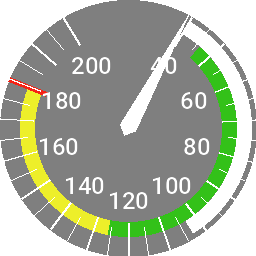
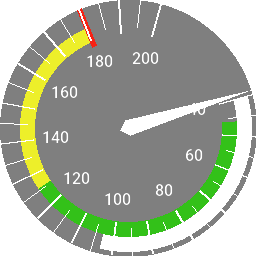
add rotation docs & xml layout

diff --git a/gopro_overlay/layout_xml.py b/gopro_overlay/layout_xml.py
@@ -327,4 +327,5 @@ def create_asi(element, entry, timeseries, font, **kwargs):
         Vfe=iattrib(element, "vfe", d=103),
         Vno=iattrib(element, "vno", d=126),
         Vne=iattrib(element, "vne", d=180),
+        rotate=iattrib(element, "rotate", d=0),
     )

diff --git a/docs/xml/examples/07-air-speed-indicator/README.md b/docs/xml/examples/07-air-speed-indicator/README.md
@@ -75,6 +75,29 @@ The component can be sized - sizes that are too small or big might not render qu
 <kbd>![07-air-speed-indicator-4.png](07-air-speed-indicator-4.png)</kbd>
 
 
+# Rotation
+
+Can rotate the entire gauge clockwise using `rotate`
+
+
+```xml
+<component type="asi" rotate="45" />
+```
+<kbd>![07-air-speed-indicator-5.png](07-air-speed-indicator-5.png)</kbd>
+
+
+```xml
+<component type="asi" rotate="90" />
+```
+<kbd>![07-air-speed-indicator-6.png](07-air-speed-indicator-6.png)</kbd>
+
+
+```xml
+<component type="asi" rotate="180" />
+```
+<kbd>![07-air-speed-indicator-7.png](07-air-speed-indicator-7.png)</kbd>
+
+
 # Font
 
 The text font can be changed in size
@@ -83,5 +106,5 @@ The text font can be changed in size
 ```xml
 <component type="asi" textsize="24" />
 ```
-<kbd>![07-air-speed-indicator-5.png](07-air-speed-indicator-5.png)</kbd>
+<kbd>![07-air-speed-indicator-8.png](07-air-speed-indicator-8.png)</kbd>
 

diff --git a/build-scripts/examples/07-air-speed-indicator.md b/build-scripts/examples/07-air-speed-indicator.md
@@ -46,6 +46,14 @@ The component can be sized - sizes that are too small or big might not render qu
 
 {{ <component type="asi" size="128" /> }}
 
+# Rotation
+
+Can rotate the entire gauge clockwise using `rotate`
+
+{{ <component type="asi" rotate="45" /> }}
+{{ <component type="asi" rotate="90" /> }}
+{{ <component type="asi" rotate="180" /> }}
+
 # Font
 
 The text font can be changed in size
